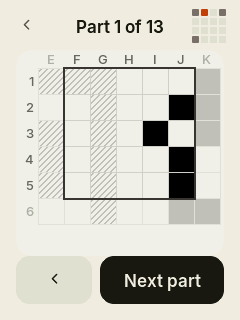
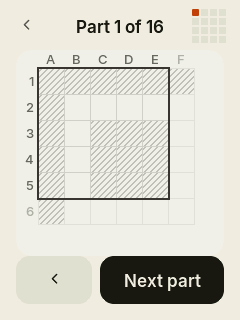
Show all parts again, the pre-printed corners fully hatched
Skipping the corner parts made the count (13) differ from the card's
grid (16 boxes). Every part is shown again; the corners come up all
hatched, so there is nothing to draw there but the count matches.

diff --git a/firmware/src/app/ui.cpp b/firmware/src/app/ui.cpp
@@ -1308,26 +1308,15 @@ static void col_label(int col, char out[4]) { snprintf(out, 4, "%c", 'A' + col);
 
 const uint8_t *ui_backup_qr() { return qr_n ? qr_buf : nullptr; }
 
-// Parts that lie wholly on the card's pre-printed squares have nothing to copy.
-static bool part_printed(int b) {
-    int bs = blocks_per_side(), c0 = (b % bs) * 5, r0 = (b / bs) * 5;
-    for (int y = r0; y < r0 + block_len(b / bs); y++)
-        for (int x = c0; x < c0 + block_len(b % bs); x++)
-            if (!preprinted(x, y)) return false;
-    return true;
-}
-
 void ui_backup_next() {
     int n = blocks_per_side() * blocks_per_side();
-    for (int b = block_i + 1; b < n; b++)
-        if (!part_printed(b)) { block_i = b; ui_goto(UI_BACKUP_BLOCK); return; }
-    ui_goto(UI_BACKUP_SCAN);
+    if (block_i + 1 < n) { block_i++; ui_goto(UI_BACKUP_BLOCK); }
+    else ui_goto(UI_BACKUP_SCAN);
 }
 static void block_next_cb(lv_event_t *) { ui_backup_next(); }
 static void block_prev_cb(lv_event_t *) {
-    for (int b = block_i - 1; b >= 0; b--)
-        if (!part_printed(b)) { block_i = b; ui_goto(UI_BACKUP_BLOCK); return; }
-    ui_goto(UI_BACKUP_QR);
+    if (block_i > 0) { block_i--; ui_goto(UI_BACKUP_BLOCK); }
+    else ui_goto(UI_BACKUP_QR);
 }
 static void block_gesture_cb(lv_event_t *) {
     lv_dir_t d = lv_indev_get_gesture_dir(lv_indev_active());
@@ -1336,26 +1325,17 @@ static void block_gesture_cb(lv_event_t *) {
 }
 
 // One 5x5 block at a time, labelled with the card's column letters and row
-// numbers, inside one module of its neighbours. Parts with nothing to copy
-// are left out of the count.
+// numbers, inside one module of its neighbours. Every part of the card's grid
+// is shown, also the corners that are all pre-printed (all hatched).
 static void build_backup_block() {
     lv_obj_t *scr = screen();
     int bs = blocks_per_side(), n = bs * bs;
-    while (part_printed(block_i)) block_i++;
-    int k = 0, m = 0;
-    bool last = true;
-    for (int b = 0; b < n; b++) {
-        if (part_printed(b)) continue;
-        m++;
-        if (b <= block_i) k++;
-        else last = false;
-    }
     char title[32];
-    snprintf(title, sizeof(title), "Part %d of %d", k, m);
+    snprintf(title, sizeof(title), "Part %d of %d", block_i + 1, n);
     lv_obj_t *bar = topbar(scr, title, to_whole_qr_cb);
 
     // Where this block sits in the QR: one square per block, this one lit,
-    // the ones already copied (or pre-printed) dimmed.
+    // the ones already copied dimmed.
     const int sq = bs > 4 ? 6 : 7, gap = 2, side = bs * sq + (bs - 1) * gap;
     lv_obj_t *map = lv_obj_create(bar);
     lv_obj_remove_style_all(map);
@@ -1367,7 +1347,7 @@ static void build_backup_block() {
         lv_obj_set_size(q, sq, sq);
         lv_obj_set_pos(q, (b % bs) * (sq + gap), (b / bs) * (sq + gap));
         lv_obj_set_style_radius(q, 1, 0);
-        lv_obj_set_style_bg_color(q, b == block_i ? ACCENT : b < block_i || part_printed(b) ? TEXT_3 : SURFACE_2, 0);
+        lv_obj_set_style_bg_color(q, b == block_i ? ACCENT : b < block_i ? TEXT_3 : SURFACE_2, 0);
         lv_obj_set_style_bg_opa(q, LV_OPA_COVER, 0);
     }
 
@@ -1402,6 +1382,7 @@ static void build_backup_block() {
         lv_obj_set_pos(t, 0, gy + i * cell + cell / 2 - 8);
     }
     lv_obj_add_event_cb(scr, block_gesture_cb, LV_EVENT_GESTURE, nullptr);
+    bool last = block_i + 1 == n;
     // The seed is already backed up elsewhere (wallet, or the written words), so checking is optional.
     lv_obj_t *secondary = last ? btn_ghost(scr, "Done", backup_exit_cb, nullptr, TEXT)
                                                   : btn_ghost(scr, ICON_LEFT, block_prev_cb, nullptr, TEXT);

diff --git a/firmware/e2e/test_singlesig.py b/firmware/e2e/test_singlesig.py
@@ -105,8 +105,7 @@ def test_seedqr_card_is_copied_and_checked(dev):
     while "Check card" not in dev.texts():
         dev.tap("Next")
         parts += 1
-    # 21x21 in 5x5 parts; the three corner parts are pre-printed on the card
-    assert "Part 13 of 13" in dev.text() and parts == 12
+    assert "Part 16 of 16" in dev.text() and parts == 15   # 21x21 in 5x5 parts
     dev.tap("Check card")
     assert dev.screen == "BACKUP_SCAN", dev.text()
     dev.scan(seedqr(STRANGER.mnemonic, compact=True))

diff --git a/firmware/README.md b/firmware/README.md
@@ -75,8 +75,7 @@ and row numbers like the card's grid (21×21 splits 5+5+5+6, so no thin
 edge parts). Each part shows one ring of its neighbours greyed, to line up
 with what is already on the card; squares a card template pre-prints (the finder
 squares, the timing lines, the fixed dark module, and the alignment square on
-25×25) are hatched, and parts made only
-of them are skipped. Scanning the finished card checks it. The flow ends with the
+25×25) are hatched. Scanning the finished card checks it. The flow ends with the
 fingerprint to write on the backup; leaving it wipes the seed.
 
 Back up as QR runs the same card flow for whatever seed is loaded, scanned
